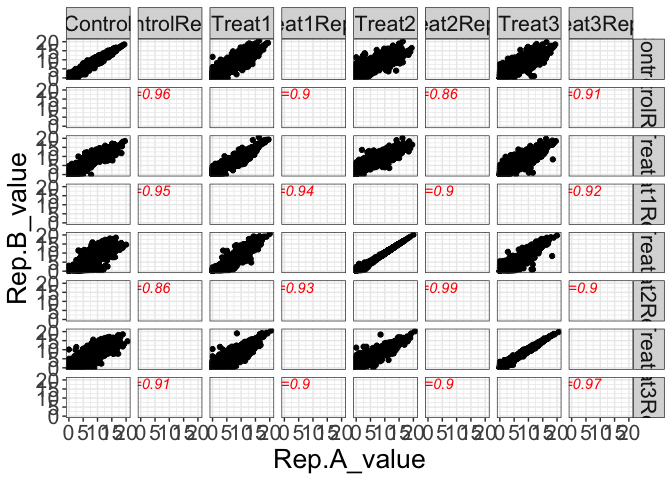
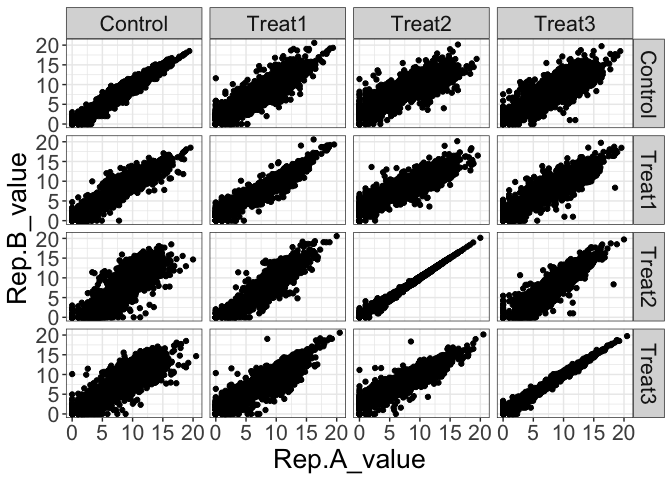
updates

diff --git a/README.md b/README.md
@@ -72,6 +72,13 @@ groups <- readr::read_delim(file = groups_file,delim = "\t")
 
 csp <- corplot::get_pair_wise_scatter(dat_tbl = expr_mat, group_tbl = groups,var_plot = condition, var_plot_group = repl,dat_id = gene_name)
 
+print(csp )
+```
+
+<img src="man/figures/README-unnamed-chunk-7-1.png" width="100%" />
+
+``` r
+
 cor_tbl2 <- cor_tbl %>% dplyr::rename(`Rep.A`=var1, `Rep.B` = var2) %>% 
   dplyr::filter(grepl("Rep.A" ,`Rep.A`)) %>%
   dplyr::filter(grepl("Rep.B" ,`Rep.B`)) %>% 
@@ -81,11 +88,9 @@ csp + ggplot2::geom_text(data = cor_tbl2,  x = 3, y = 18, ggplot2::aes(label = p
                          fontface="italic" , col = "red")
 ```
 
-<img src="man/figures/README-unnamed-chunk-7-1.png" width="100%" />
+<img src="man/figures/README-unnamed-chunk-7-2.png" width="100%" />
 
 ``` r
-
-
 
 
 ## add corr values 
